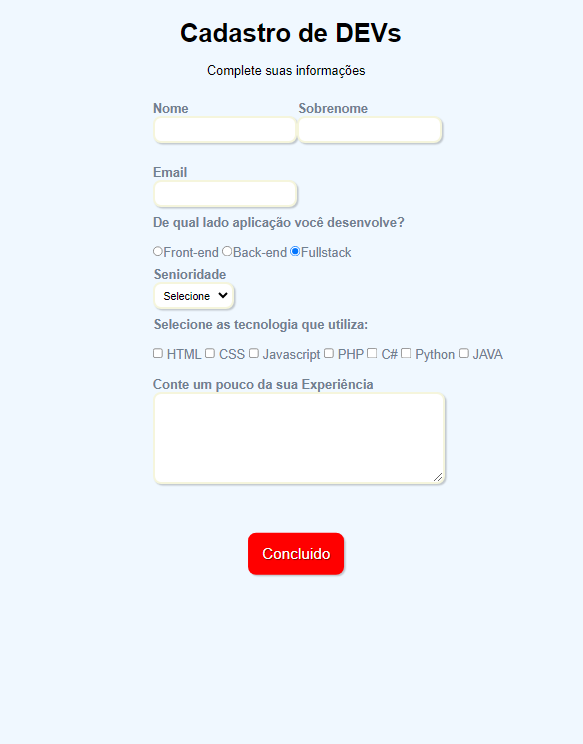
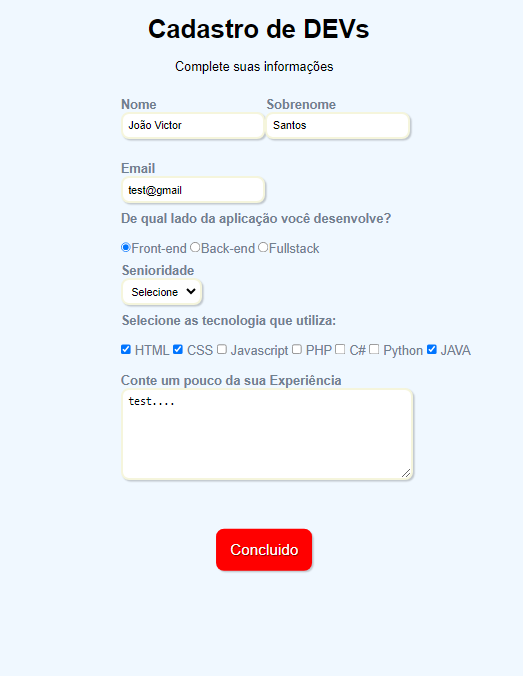
Concluido

Changed region(s): [[0.2141, 0.0311, 0.9178, 0.8698]]

diff --git a/Formulario/Formulario.html b/Formulario/Formulario.html
@@ -39,7 +39,7 @@
 
             <!-- Alternativas -->
         <div class="campo">
-            <label><strong>De qual lado aplicação você desenvolve?</strong></label><br><br>
+            <label><strong>De qual lado da aplicação você desenvolve?</strong></label><br><br>
             <label>
                 <input type="radio" name="devweb" value="frontend">Front-end
             </label>
